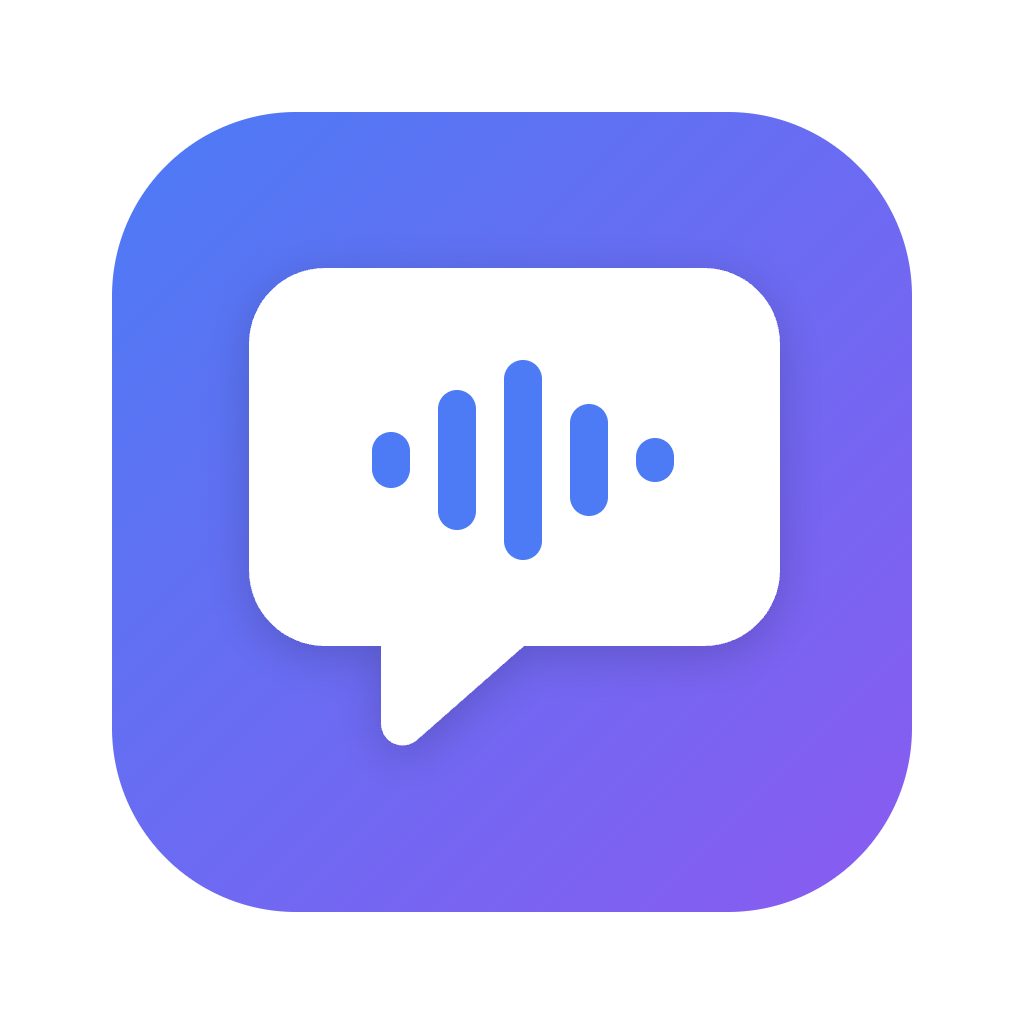
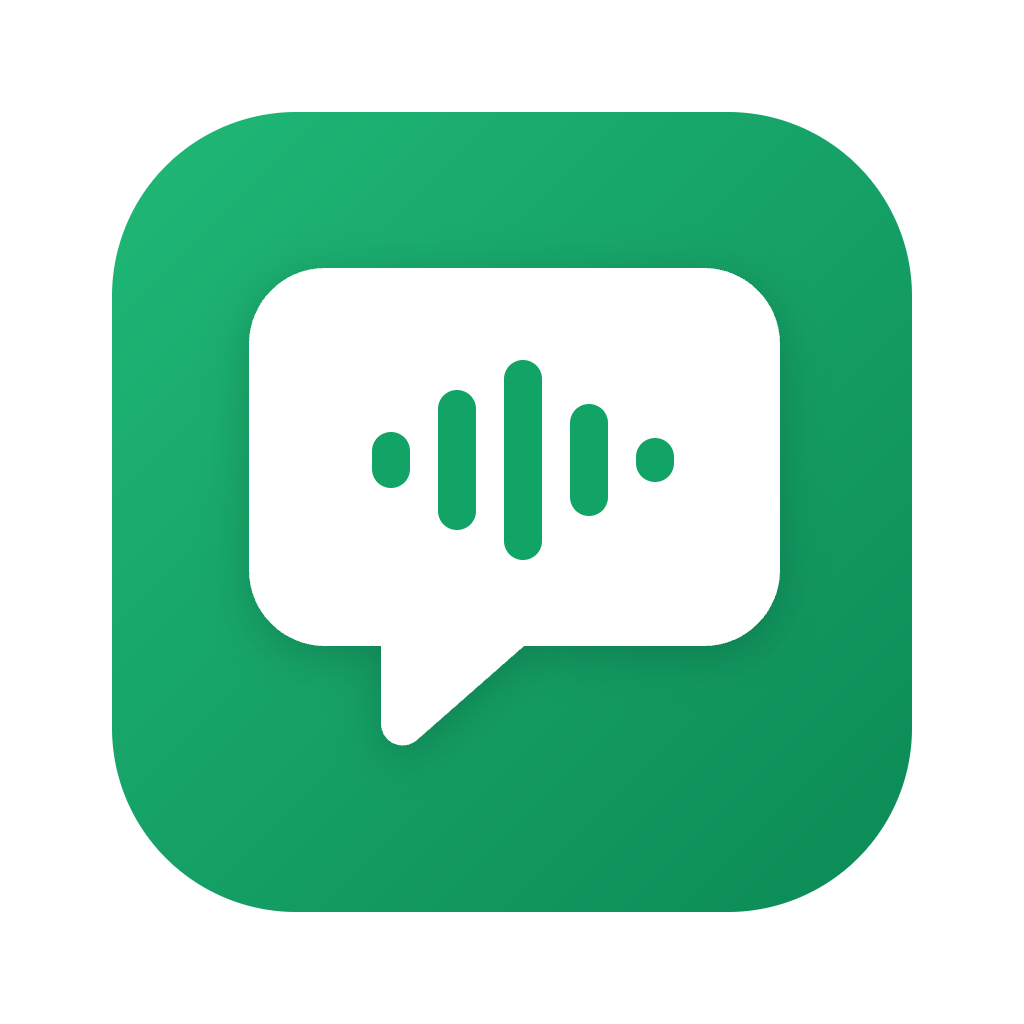
Recolor to emerald (drop the AI blue/purple gradient)
Accent, highlight, selection, active states -> emerald (#12a367). Wordmark is
solid emerald, no gradient. App icon re-cut with an emerald tile + green
waveform (transparent corners preserved).

Claude-Session: https://claude.ai/code/session_016ix6tVxD7yEAq8QvnketgJ

diff --git a/pdf-reader/weblib/reader.html b/pdf-reader/weblib/reader.html
@@ -5,13 +5,13 @@
 <style>
 :root{color-scheme:light dark;   /* light palette (default) */
  --bg:#f4f4f7;--panel:#ffffff;--panel2:#e8e8ee;--edge:#d8d8e0;--fg:#1b1b20;--dim:#6b6b78;
- --btn:#ececf2;--btnh:#dfdfe8;--handle:#b9b9c4;--accent:#3a6df0;--accent2:#4c7bf5;--hl:rgba(90,140,255,.28)}
+ --btn:#ececf2;--btnh:#dfdfe8;--handle:#b9b9c4;--accent:#12a367;--accent2:#16b877;--hl:rgba(18,163,103,.28)}
 @media (prefers-color-scheme:dark){:root:not([data-theme="light"]){
  --bg:#141418;--panel:#1c1c23;--panel2:#0d0d10;--edge:#2b2b34;--fg:#eaeaf0;--dim:#8b8b98;
- --btn:#26262e;--btnh:#33333d;--handle:#4a4a57;--hl:rgba(90,140,255,.38)}}
+ --btn:#26262e;--btnh:#33333d;--handle:#4a4a57;--hl:rgba(18,163,103,.38)}}
 :root[data-theme="dark"]{
  --bg:#141418;--panel:#1c1c23;--panel2:#0d0d10;--edge:#2b2b34;--fg:#eaeaf0;--dim:#8b8b98;
- --btn:#26262e;--btnh:#33333d;--handle:#4a4a57;--hl:rgba(90,140,255,.38)}
+ --btn:#26262e;--btnh:#33333d;--handle:#4a4a57;--hl:rgba(18,163,103,.38)}
 *{box-sizing:border-box}
 body{margin:0;height:100vh;display:flex;flex-direction:column;
  font:15px/1.5 -apple-system,system-ui,sans-serif;background:var(--bg);color:var(--fg);overflow:hidden}
@@ -21,8 +21,7 @@ body{margin:0;height:100vh;display:flex;flex-direction:column;
 .tbtn{font-size:13px;background:var(--btn);color:var(--fg);border:0;border-radius:8px;padding:7px 11px;cursor:pointer;white-space:nowrap}
 .tbtn:hover{background:var(--btnh)}.tbtn.on{background:var(--accent)}
 #hint{font-size:12px;color:var(--dim)}
-#brand{font-weight:700;font-size:14px;letter-spacing:.2px;
- background:linear-gradient(90deg,var(--accent),#8a5bf0);-webkit-background-clip:text;background-clip:text;color:transparent}
+#brand{font-weight:700;font-size:14px;letter-spacing:.2px;color:var(--accent)}
 #app{flex:1;display:flex;min-height:0;min-width:0}
 #app.col{flex-direction:column}
 #app.swap{flex-direction:row-reverse}
@@ -51,7 +50,7 @@ body{margin:0;height:100vh;display:flex;flex-direction:column;
 .textLayer{position:absolute;inset:0;overflow:hidden;line-height:1;text-size-adjust:none;
  forced-color-adjust:none;transform-origin:0 0;caret-color:transparent;z-index:2}
 .textLayer span{color:transparent;position:absolute;white-space:pre;cursor:text;transform-origin:0 0}
-.textLayer ::selection{background:rgba(90,140,255,.45)}
+.textLayer ::selection{background:rgba(18,163,103,.40)}
 ::highlight(sentence){background:var(--hl);border-radius:3px}
 .sep{width:1px;height:22px;background:var(--edge);margin:0 2px}
 .zlabel{font-size:12px;color:var(--dim);margin-left:4px}

diff --git a/mac/icon.html b/mac/icon.html
@@ -9,7 +9,7 @@
 <svg width="1024" height="1024" viewBox="0 0 1024 1024" xmlns="http://www.w3.org/2000/svg">
  <defs>
   <linearGradient id="bg" x1="0" y1="0" x2="1" y2="1">
-   <stop offset="0" stop-color="#4c7bf5"/><stop offset="1" stop-color="#8a5bf0"/>
+   <stop offset="0" stop-color="#1fb877"/><stop offset="1" stop-color="#0c8a55"/>
   </linearGradient>
   <filter id="sh" x="-20%" y="-20%" width="140%" height="140%">
    <feDropShadow dx="0" dy="10" stdDeviation="22" flood-color="#000" flood-opacity="0.18"/>
@@ -21,7 +21,7 @@
   <path fill="#fff" d="M320 268h384c42 0 76 34 76 76v226c0 42-34 76-76 76H524l-107 94c-14 12-36 3-36-17v-77h-56c-42 0-76-34-76-76V344c0-42 34-76 76-76z"/>
  </g>
  <!-- audio waveform inside the bubble -->
- <g fill="#4c7bf5">
+ <g fill="#12a367">
   <rect x="372" y="432" width="38" height="56" rx="19"/>
   <rect x="438" y="390" width="38" height="140" rx="19"/>
   <rect x="504" y="360" width="38" height="200" rx="19"/>
